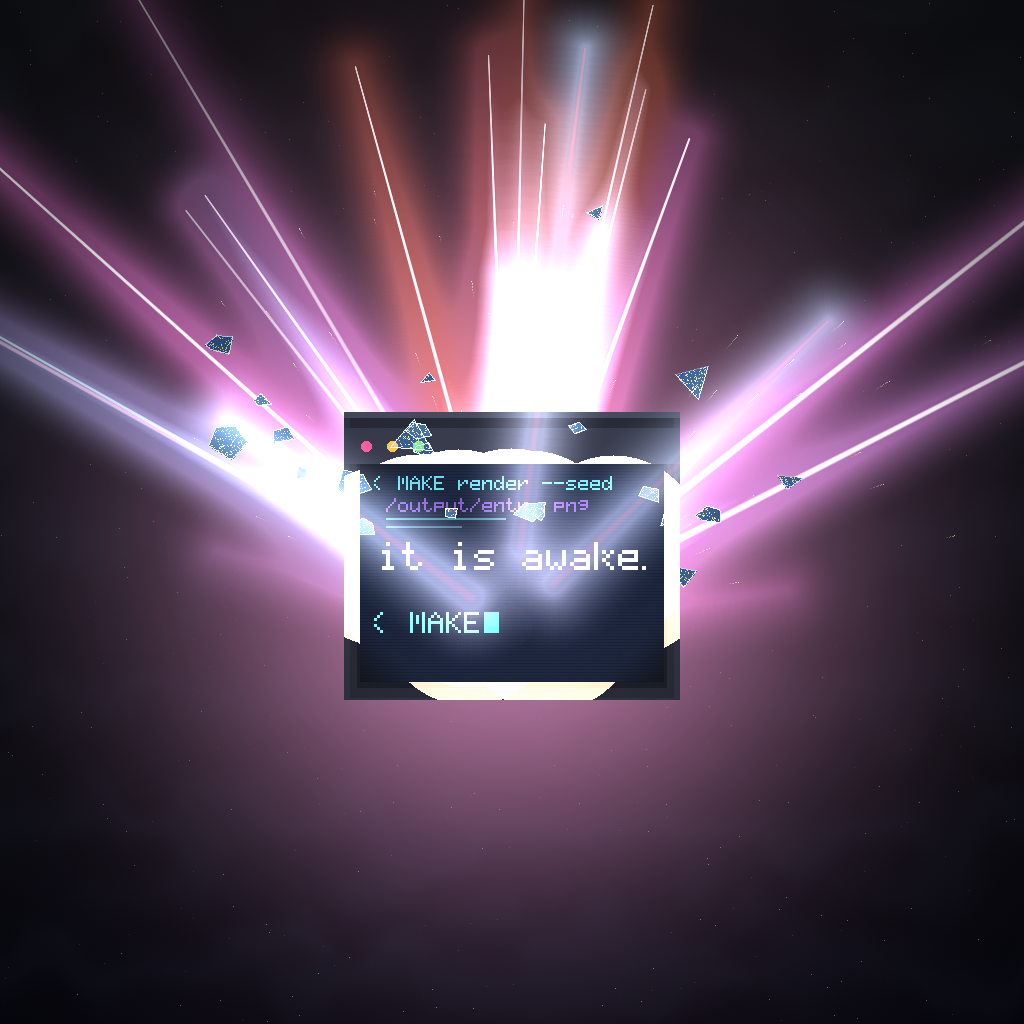
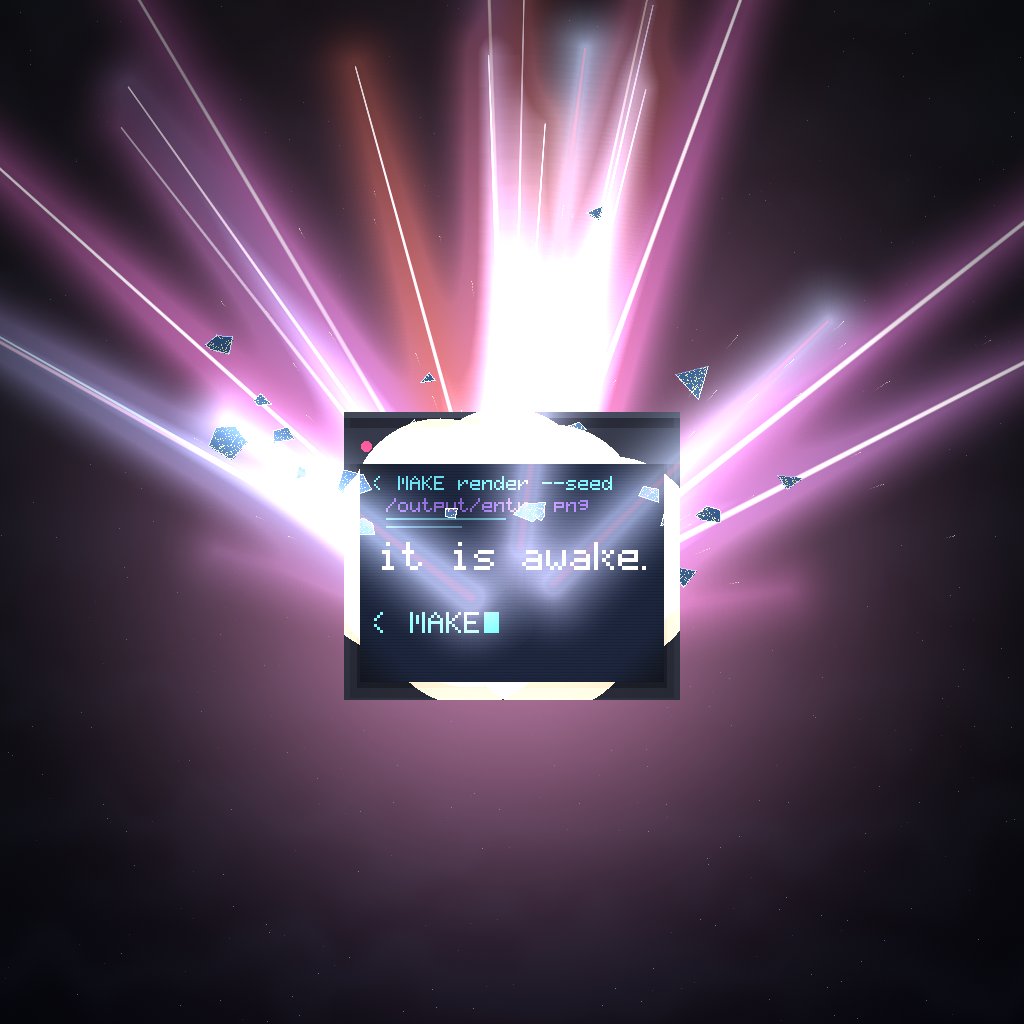
round-4b: fan leans upward (length scales with |sin|, horizontal rays shorter)

diff --git a/main.ts b/main.ts
@@ -62,7 +62,7 @@ function emitToward(tx: number, ty: number, len: number, w: number, i: number,
 // main fan: mostly up and outward, asymmetric (leans viewer-left)
 for (let k = 0; k < 11; k++) {
   const ang = -Math.PI / 2 + rf(-1.32, 1.16);
-  const len = rf(560, 940) * (Math.abs(Math.cos(ang)) * 0.7 + 0.35);
+  const len = rf(560, 940) * (Math.abs(Math.sin(ang)) * 0.3 + 0.7);
   emitToward(AX + Math.cos(ang) * len, AY + Math.sin(ang) * len, len,
     rf(5, 9), rf(0.6, 1.15), rf(0.1, 0.5), 0);
 }
